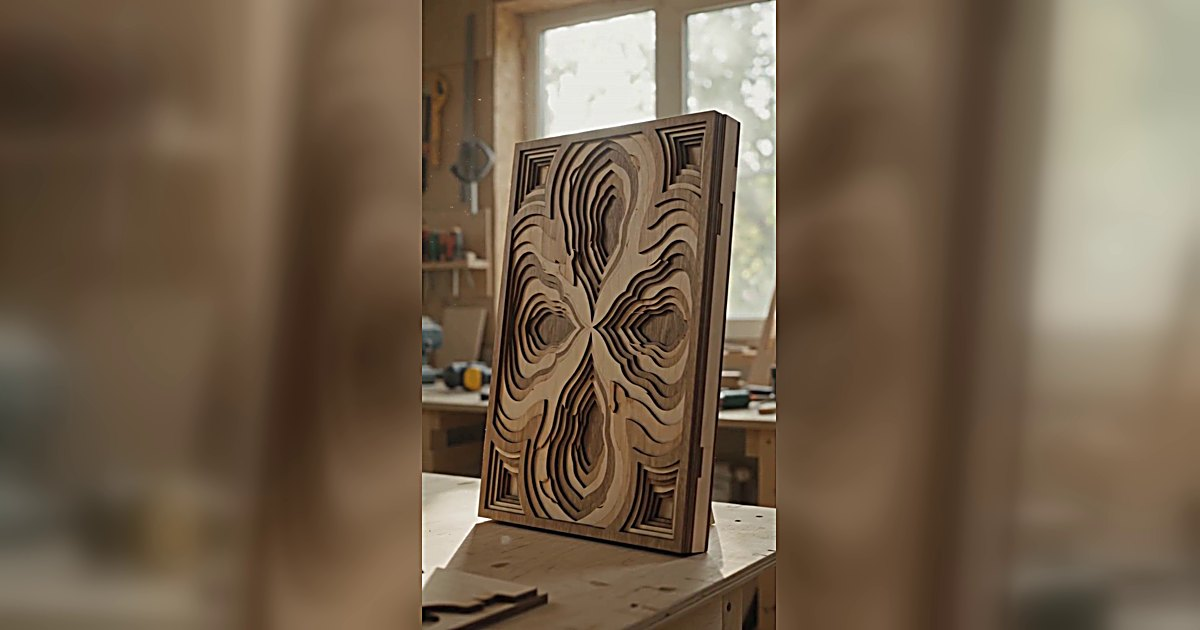
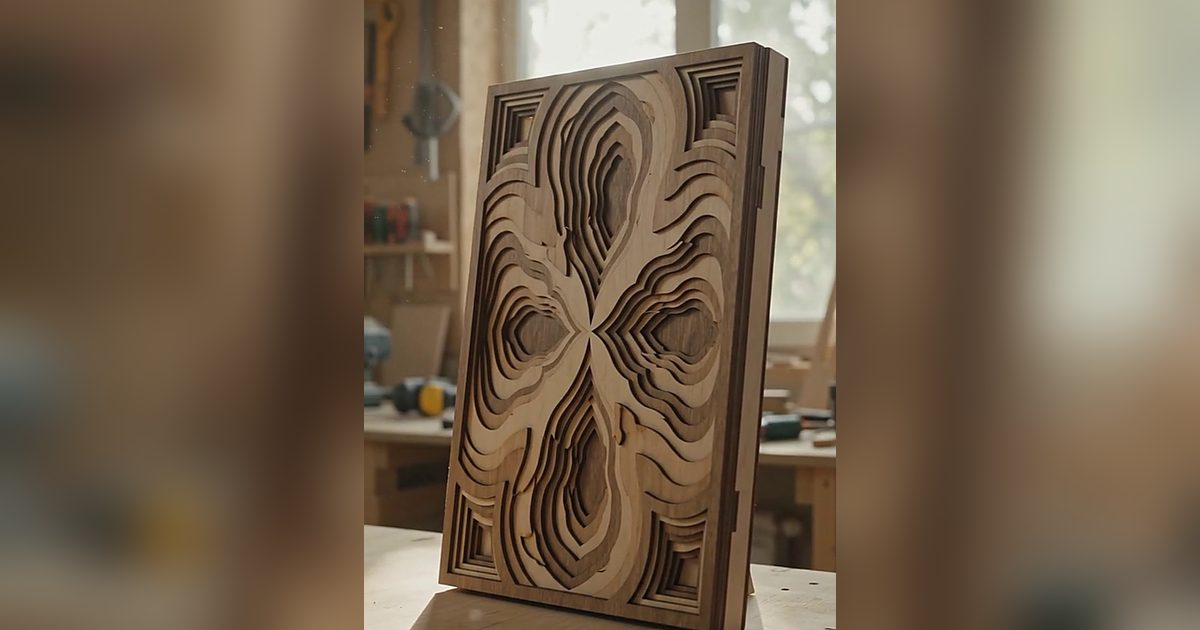
Пост 07.09: часы с римскими цифрами и ажурной розеткой

Changed region(s): [[0.2775, 0.0, 0.7092, 1.0]]

diff --git a/src/blog.js b/src/blog.js
@@ -895,4 +895,69 @@ export const POSTS = [
 
 Клин, от одного рабочего дня. +7 926 664-21-21`,
   },
+  {
+    slug: 'chasy-rimskie-cifry-azhurnye',
+    date: '2026-09-07',
+    title: 'Часы с римскими цифрами и ажурной розеткой: золото на просвет',
+    h1: 'Римские цифры и ажур: часы, которые работают на просвет',
+    description: 'Настенные часы с римскими цифрами: золотое кольцо и прорезная розетка поверх чёрного поля, рез насквозь. Любой диаметр и цвет под заказ. Мастерская «Лазер Клин», Клин.',
+    alts: [
+      'Настенные часы с римскими цифрами и золотой ажурной розеткой висят на белой кирпичной стене',
+      'Девушка держит перед собой часы с римскими цифрами, видна вся окружность циферблата',
+      'Часы с золотым ажуром в руках у белой кирпичной стены, виден рельеф прорезного узора',
+    ],
+    services: ['chasy-na-zakaz', 'cifry-dlya-chasov', 'lazernaya-rezka'],
+    body: `
+  <p>Римские цифры на циферблате — приём старый и почти беспроигрышный. Он не привязан ни к какой эпохе конкретно: такие часы одинаково спокойно висят и в классической гостиной с лепниной, и на голой кирпичной стене в лофте. Арабские цифры всегда немного про расписание, римские — про то, что время просто идёт.</p>
+  <p>Но сами по себе цифры делают вещь скучной. Поэтому здесь у циферблата есть второй этаж.</p>
+
+  <h2>Два слоя, а не рисунок</h2>
+  <p>Циферблат собран из двух пластин. Нижняя — чёрная, сплошная. Верхняя — золотая, и она прорезана насквозь: по краю остаётся кольцо с римскими цифрами, в центре — плотная розетка растительного орнамента, завитки, листья, капли.</p>
+  <p>Разница с печатью видна сразу и в темноте тоже. Золото здесь не нарисовано на чёрном фоне — это отдельный слой, поднятый над ним. Между слоями есть толщина, и в прорезях лежит настоящая тень. Утром при боковом свете из окна узор кажется глубоким и рельефным, вечером под лампой уплощается и начинает работать как ровный орнамент. Печать так не умеет: напечатанная тень одна и та же и в полдень, и ночью.</p>
+
+  <h2>Почему золото не выглядит дёшево</h2>
+  <p>Золотой цвет — самое простое место, где вещь можно испортить. Глянцевая золотая плёнка бликует и мгновенно читается как пластик. Здесь краска матовая, с лёгкой фактурой, и она не отражает свет зеркально, а рассеивает. Поэтому на фотографиях виден оттенок, а не белое пятно от вспышки, а на стене цвет остаётся золотым при любом освещении.</p>
+  <p>Чёрное поле под ним не глянцевое по той же причине. Два матовых слоя рядом дают контраст за счёт цвета и тени, а не за счёт блеска.</p>
+
+  <h2>Размер и стена</h2>
+  <p>Это крупная вещь: на снимках видно, что в руках она занимает всё пространство от плеча до бедра. Такие часы вешают на пустую стену — над диваном, над комодом, в прихожей напротив входа. Рядом с ними не нужны ни рамки, ни полки, они сами закрывают пустое место.</p>
+  <p>Диаметр мы режем любой. Меньший подойдёт для кухни или кабинета, большой имеет смысл там, где стена читается целиком с нескольких метров.</p>
+  <p>Про фон: светлая стена работает лучше тёмной. На белом кирпиче или светлой штукатурке чёрное поле становится графикой и золото на нём светится. На тёмно-серой или тёмно-синей стене чёрный слой сольётся с фоном, и от рисунка останется одно золотое кольцо — тоже неплохо, но это уже другая вещь.</p>
+
+  <h2>Механизм</h2>
+  <p>Стоит механизм плавного хода. Секундная стрелка не прыгает по делениям, а едет непрерывно, и часы не тикают — ни днём, ни ночью. Для спальни и кабинета это решает, потому что тиканье слышно ровно тогда, когда в комнате тихо.</p>
+
+  <h2>Что можно поменять</h2>
+  <p>Орнамент в центре — сменная часть. Вместо растительной розетки режем геометрию, мандалу, вензель с инициалами, герб семьи. Цифры тоже не обязательны: делаем часы вообще без разметки, только с ажуром, или с одними метками на четвертях.</p>
+  <p>Цвет пары «верх-низ» подбираем под интерьер: золото по чёрному, серебро по графиту, белый по дереву, чёрный по натуральной фанере. Если нужен свой рисунок — принимаем в работу эскиз или рисуем макет с нуля.</p>
+`,
+    tg: `Часы с римскими цифрами: золотой ажур на просвет.
+
+Циферблат собран из двух пластин. Нижняя чёрная, сплошная. Верхняя золотая и прорезана насквозь: по краю кольцо с римскими цифрами, в центре плотная розетка из завитков и листьев.
+
+Золото здесь не напечатано на чёрном, а поднято над ним отдельным слоем. В прорезях лежит настоящая тень: утром при боковом свете узор глубокий и рельефный, вечером под лампой уплощается. Напечатанная тень так не умеет — она одинакова и в полдень, и ночью.
+
+Краска матовая, без глянца. Золотая плёнка бликовала бы и читалась как пластик.
+
+Вещь крупная, под пустую стену: над диваном, над комодом, в прихожей напротив входа. Светлый фон лучше тёмного — на тёмной стене чёрный слой сольётся.
+
+Механизм плавного хода, не тикают. Орнамент в центре меняем на любой: геометрия, мандала, вензель с инициалами.
+
+Клин, от одного рабочего дня. +7 926 664-21-21.`,
+    vk: `Часы с римскими цифрами и ажурной розеткой.
+
+Циферблат из двух пластин: нижняя чёрная и сплошная, верхняя золотая и прорезана насквозь. По краю остаётся кольцо с римскими цифрами, в центре — плотная розетка растительного орнамента.
+
+Главное отличие от печати видно на стене. Золото не нарисовано на чёрном фоне, а поднято над ним отдельным слоем, и в прорезях лежит настоящая тень. Утром при свете из окна узор выглядит глубоким, вечером под лампой становится ровным орнаментом.
+
+Краска матовая. Глянцевое золото бликует и сразу читается как пластик, поэтому его здесь нет.
+
+Часы крупные, рассчитаны на пустую стену. Фон лучше светлый: на белом кирпиче чёрное поле работает как графика, а на тёмной стене сольётся с ней.
+
+Механизм плавного хода — не тикают вообще.
+
+Меняем что угодно: вместо розетки геометрия, мандала или вензель с инициалами, вместо римских цифр метки на четвертях или чистый ажур без разметки. Диаметр и цвет подбираем под интерьер, принимаем свой эскиз или рисуем макет с нуля.
+
+Клин, от одного рабочего дня. +7 926 664-21-21`,
+  },
 ];
